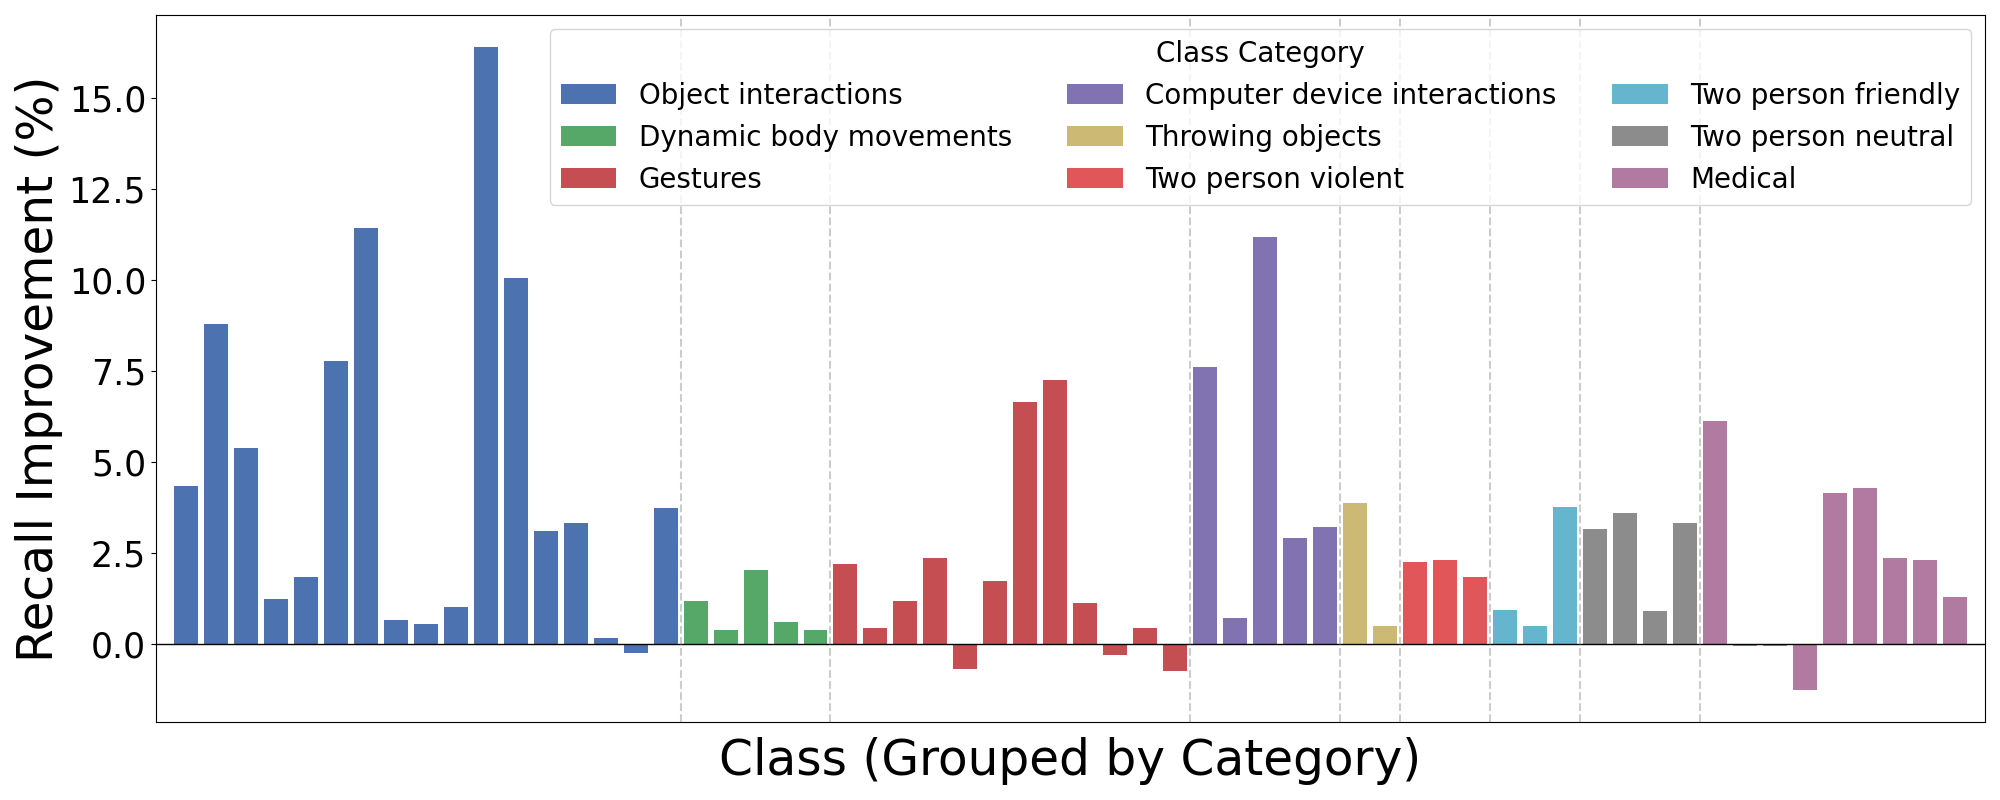
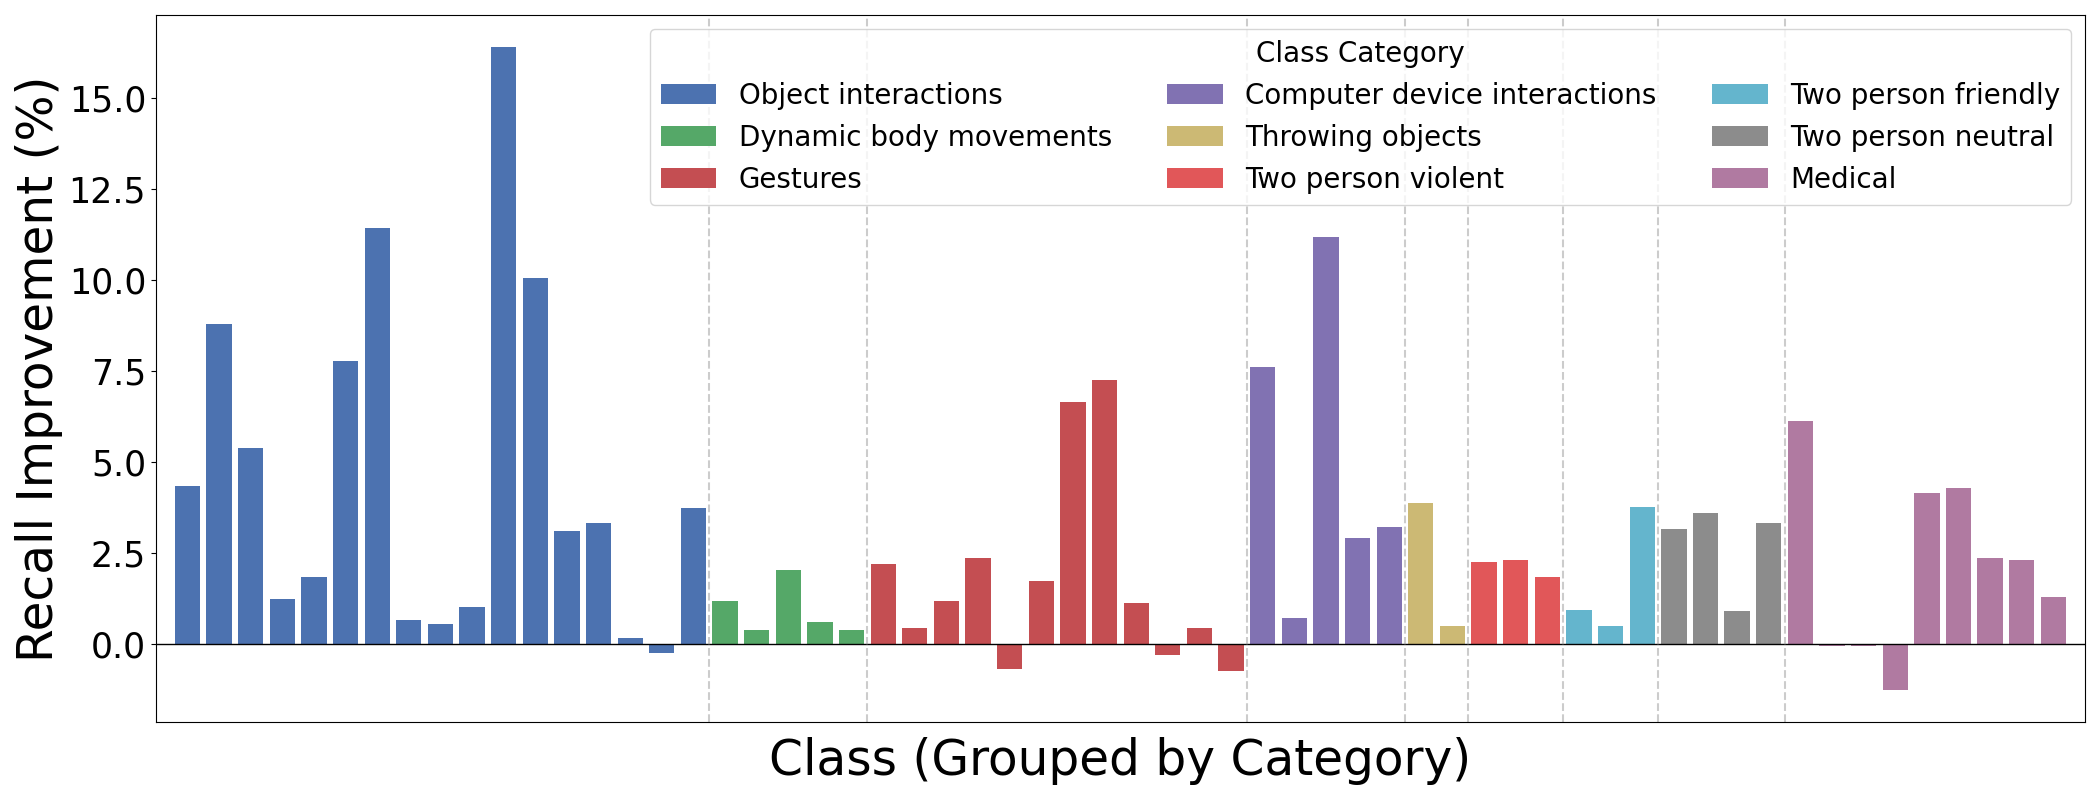
Change final draft before submit 2026.06.15

diff --git a/main.tex b/main.tex
@@ -17,9 +17,13 @@
 \usepackage{booktabs}
 \usepackage{siunitx}
 \sisetup{detect-weight=true, detect-inline-weight=math}
+\usepackage[font=small]{caption}
 
-% % Zotero citation key:
-% %     auth.lower+year+title
+% Reduce space under captions...
+\setlength{\belowcaptionskip}{-5pt}
+
+% Zotero citation key:
+%     auth.lower+year+title
 \usepackage{hyperref}
 
 
@@ -28,7 +32,7 @@
 }}
 
 \author{Lewis de Zoete Grundy$^{1}$, Chris McCarthy$^{1}$, and Christopher Fluke$^{1}$% <-this % stops a space
-%\thanks{*This work was not supported by any organization}% <-this % stops a space
+%\thanks{*This work was not supported by any organisation}% <-this % stops a space
 \thanks{$^{1}$School of Science, Computing and Emerging Technologies,
         Swinburne University of Technology, John St, Hawthorn VIC 3122, Australia
         {\tt\small\{ldezoetegrundy,cdmccarthy,cfluke\}@swin.edu.au}}%
@@ -50,7 +54,7 @@ Effective human-robot interaction (HRI) relies on a robot’s ability to interpr
 
 Despite significant progress in human action recognition, early action anticipation remains a challenging problem. Many approaches rely on skeletal representations derived from pose estimation, which provide a compact and semantically meaningful description of human body configuration \cite{yan2018SpatialTemporalGraphConvolutionalNetworksSkeletonBasedActionRecognition,shi2019SkeletonBasedActionRecognitionDirectedGraphNeuralNetworks}. These representations are well suited to real-time systems due to their efficiency and robustness to background variation. However, skeleton-based methods inherently discard fine-grained motion information, limiting their ability to distinguish between actions with similar pose configurations but different movement dynamics, particularly in the early stages of an action.
 
-Conversely, dense motion representations such as optical flow capture rich spatiotemporal information and have been widely used to improve action recognition performance \cite{simonyan2014TwoStreamConvolutionalNetworksActionRecognitionVideos,feichtenhofer2016ConvolutionalTwoStreamNetworkFusionVideoActionRecognition}. More recent work has explored transformer-based architectures for action anticipation, achieving strong performance through large-scale spatiotemporal modelling \cite{girdhar2021AnticipativeVideoTransformer}. However, these approaches often come with increased computational cost, making them less suitable for low-latency perception pipelines required in interactive robotic systems.
+Conversely, dense motion representations such as optical flow capture rich spatiotemporal information and have been widely used to improve action recognition performance \cite{simonyan2014TwoStreamConvolutionalNetworksActionRecognitionVideos}. More recent work has explored transformer-based architectures for action anticipation, achieving strong performance through large-scale spatiotemporal modelling \cite{girdhar2021AnticipativeVideoTransformer}. However, these approaches often come with increased computational cost, making them less suitable for low-latency perception pipelines required in interactive robotic systems.
 
 \begin{figure}[t]
     \centering
@@ -85,12 +89,13 @@ This paper is structured as follows: Section~\ref{sec:related_work} reviews rela
 
 % PoseOFF extraction method diagram
 \begin{figure*}[ht]
-  \centering
-  \includegraphics[width=0.9\linewidth]{figures/PoseOFF_extraction/PoseOFF_extraction-FLOW_WINDOWS.png}
- \caption{\label{fig:poseoff_extraction}
-PoseOFF representation construction. From an input RGB video, human pose keypoints and optical flow fields are extracted. Motion features are computed at each joint location by encoding local optical flow dynamics in the vicinity of the keypoint. These pose-conditioned motion features are combined with joint coordinates to form a structured representation aligned with human kinematics, capturing localised motion information for each body part. Motion feature windows are concatenated with keypoint information without alteration to skeleton joint relations. A lightweight embedding layer allows the PoseOFF data to be fed into an existing skeleton-based action recognition models without modification to model backbone.
-}
+    \centering
+    \includegraphics[width=0.9\linewidth]{figures/PoseOFF_extraction/PoseOFF_extraction-FLOW_WINDOWS.png}
+    \caption{\label{fig:poseoff_extraction}
+    PoseOFF representation construction. From an input RGB video, human pose keypoints and optical flow fields are extracted. Motion features are computed at each joint location by encoding local optical flow dynamics in the vicinity of the keypoint. These pose-conditioned motion features are combined with joint coordinates to form a structured representation aligned with human kinematics, capturing localised motion information for each body part. Motion feature windows are concatenated with keypoint information without alteration to skeleton joint relations. A lightweight embedding layer allows the PoseOFF data to be fed into an existing skeleton-based action recognition models without modification to model backbone.
+    }
 \end{figure*}
+
 
 \section{Related work}
 \label{sec:related_work}
@@ -110,7 +115,7 @@ These approaches achieve strong performance while maintaining relatively low com
 This limitation becomes particularly significant in early action anticipation, where partial observations may not yet exhibit distinctive pose configurations. In such cases, informative motion cues may be present even when pose alone is ambiguous, suggesting that augmenting skeleton-based representations with additional motion information is important for improving early prediction performance.
 
 \subsection{Motion-based and Multimodal Approaches}
-Motion-based representations, particularly those based on optical flow, capture dynamic information that complements pose and appearance features. Two-stream architectures \cite{simonyan2014TwoStreamConvolutionalNetworksActionRecognitionVideos,feichtenhofer2016ConvolutionalTwoStreamNetworkFusionVideoActionRecognition} and more recent video models \cite{tong2022VideoMAEMaskedAutoencodersareDataEfficientLearnersSelfSupervisedVideoPreTraining} demonstrate the importance of motion cues for action understanding \cite{kong2022HumanActionRecognitionPredictionSurvey}. However, these approaches typically model motion as a dense, global signal, leading to substantial computational cost and redundancy. While multimodal fusion improves recognition performance, it does not explicitly structure motion representations around human kinematics. As a result, motion information is often encoded in a manner that is both computationally expensive and weakly aligned with human body dynamics, limiting its effectiveness for efficient and temporally early action understanding.
+Motion-based representations, particularly those based on optical flow, capture dynamic information that complements pose and appearance features. Two-stream architectures \cite{simonyan2014TwoStreamConvolutionalNetworksActionRecognitionVideos} and more recent video models \cite{tong2022VideoMAEMaskedAutoencodersareDataEfficientLearnersSelfSupervisedVideoPreTraining} demonstrate the importance of motion cues for action understanding \cite{kong2022HumanActionRecognitionPredictionSurvey}. However, these approaches typically model motion as a dense, global signal, leading to substantial computational cost and redundancy. While multimodal fusion improves recognition performance, it does not explicitly structure motion representations around human kinematics. As a result, motion information is often encoded in a manner that is both computationally expensive and weakly aligned with human body dynamics, limiting its effectiveness for efficient and temporally early action understanding.
 
 % TODO: Review 649 - Stronger clarification here on differences between PoseOFF and existing joint-centred or pose-guided motion representations
 % E.g. JOLO-GCN, H-MoRe
@@ -125,7 +130,7 @@ This reveals a clear gap in the literature. No existing work has sought to integ
 
 We propose PoseOFF, a pose-conditioned motion representation designed to encode localised motion dynamics aligned with human body structure. Rather than modelling motion as a dense global signal or fusing it with pose at the feature level, PoseOFF explicitly conditions motion representation on human pose, capturing motion cues at semantically meaningful body locations.
 
-This design is motivated by the need for efficient and early action understanding in interactive robotic systems, where informative motion cues are often localised and temporally sparse. By structuring motion features around human kinematics, PoseOFF provides a compact and behaviourally grounded representation that supports early prediction while avoiding the computational overhead of dense motion modelling.
+This design is motivated by the need for efficient and early action understanding in interactive robotic systems, where informative motion cues are often localised and temporally sparse. By structuring motion features around human kinematics, PoseOFF provides a compact and behaviourally grounded representation that supports action anticipation while avoiding the computational overhead of dense motion modelling.
 
 By embedding early motion cues as learnable features in skeleton-based action recognition architectures, we aim to show such features can support state-of-the-art models achieving comparable accuracy with fewer observed frames.
 Moreover, we seek to achieve higher action anticipation ability with minimal additional computational overheads, thus retaining the feasibility of the methods applied in real-time settings on standard computing hardware.
@@ -174,7 +179,7 @@ where motion features are explicitly aligned with  joint locations, yielding a s
 \subsection{Skeleton-based Action Recognition Models}
 \label{subsec:models}
 % How we modified the neural networks
-To demonstrate the applicability and effectiveness of PoseOFF, we modify three state-of-the-art skeleton-keypoint action recognition models to incorporate learnable early visual motion cues.
+To demonstrate the applicability and effectiveness of PoseOFF, we modify three state-of-the-art skeleton keypoint action recognition models to incorporate learnable early visual motion cues.
 The embedding layer of each model was modified to include a simple CNN designed to learn the features present in the windows of optical flow.
 The CNN consisted of two convolutional layers separated by activation layers, pooling and a linear layer.
 The output of these layers was concatenated with the original skeleton keypoints coordinates as additional channels in the skeleton graph.
@@ -243,8 +248,7 @@ where $\text{Acc}_{\text{obs}}$ denotes the accuracy at a given observation rati
 \subsection{Action Classification}%
 \label{subsec:exp_action_classification}
 % % How the results were obtained
-To evaluate action classification performance, both the base models and their PoseOFF-augmented variants (\autoref{fig:embedding_network_diagram}) were trained and tested on full input sequences.
-No temporal masking was applied, simulating an offline action recognition setting.
+To evaluate action classification performance, both the base models and their PoseOFF-augmented variants (\autoref{fig:embedding_network_diagram}) were trained and tested on full input sequences without temporal masking, simulating an offline action recognition setting.
 % The PoseOFF data was learned using a simple CNN layer added to each model's embedding layer.
 % The flow windows for the NTU-RGB+D and NTU-RGB+D120 models were extracted using dilation 3.
 % The flow windows for the UCF101 dataset were extracted using dilation 1.
@@ -311,11 +315,11 @@ No temporal masking was applied, simulating an offline action recognition settin
 % These results show a baseline increase in model performance
 % Discussion of results table...
 Classification results are reported in~\autoref{table:classification_accuracy}, with the best-performing model for each dataset and evaluation highlighted.
-Across all architectures, incorporating PoseOFF embeddings yields average accuracy improvements of 2.14\%, 6.84\%, and 11.22\% on NTU RGB+D 60, NTU RGB+D 120, and UCF101, respectively.
-These gains suggest that PoseOFF embeddings capture informative cues about underlying human motion. The improvements on UCF101 are particularly notable, with an average accuracy increase of 11.22\%.
+Across all architectures, incorporating PoseOFF embeddings yields average accuracy improvements of 2.14\%, 6.84\%, and 11.22\% on NTU RGB+D 60, NTU RGB+D 120, and UCF101, respectively,
+The improvements on UCF101 are particularly notable, as this dataset consists of RGB-only videos captured “in the wild,” without depth or skeleton annotations.
 % TODO: Review 649 - Provide more discussion as to why results show greater improvement for UCF101
-As UCF101 consists of RGB-only videos captured “in the wild,” without depth or skeleton annotations, this result suggests that PoseOFF embeddings provide salient motion information well suited to real-world scenarios.
-
+The skeletons extracted with YOLO-POSE can occasionally be misplaced or dropped due to the unconstrained nature of the videos in the dataset, and given the aggressively abstract nature of skeleton keypoints, misplaced keypoints can significantly impact action recognition performance.
+The addition of PoseOFF embeddings provides salient motion information and additional scene context, even when skeleton keypoints are misplaced.
 
 
 \subsection{Action Anticipation}%
@@ -374,10 +378,10 @@ The distribution of improvements reveals clear trends across action categories. 
 A similar pattern is observed on UCF101 (Fig.~\ref{fig:perclass_ucf101}), where improvements are strongest in categories involving structured body motion and object interaction, while gains are more variable for sports-related actions. In particular, sports classes—characterised by large-scale, full-body motion—exhibit both strong improvements and occasional performance drops, suggesting that global motion dynamics may not always be fully captured by localised representations.
 
 \begin{figure*}[t]
-        \centering
-        \includegraphics[width=\linewidth]{figures/Class_examples/Class_examples_PoseOFF-FULL.png}
-        \caption{Qualitative examples illustrating how PoseOFF captures localised motion cues (e.g., rotation, divergence) around key joints, supporting improved recognition under occlusion, subtle motion, and scene clutter.}
-        \label{fig:class_examples_full}
+    \centering
+    \includegraphics[width=0.95\linewidth]{figures/Class_examples/Class_examples_PoseOFF-FULL.png}
+    \caption{Qualitative examples illustrating how PoseOFF captures localised motion cues (e.g., rotation, divergence) around key joints, supporting improved recognition under occlusion, subtle motion, and scene clutter.}
+    \label{fig:class_examples_full}
 \end{figure*}
 
 To further interpret these trends, Fig.~\ref{fig:class_examples_full} presents qualitative examples of action classes where PoseOFF yields improved recall. These examples illustrate how localised motion cues captured by pose-anchored flow contribute to improved discrimination under challenging visual conditions.
@@ -386,25 +390,25 @@ For instance, in \textit{fall over}, limb occlusion limits the availability of o
 
 Across these examples, the motion fields surrounding key joints (e.g., elbows and knees) exhibit structured patterns, including curl in the flow field corresponding to limb rotation, and divergence where joints move toward or away from the camera. These local motion signatures are not explicitly encoded in skeletal representations but are captured by PoseOFF.  Figure~\ref{fig:classexamples_small} provides two more examples (\emph{pick-up} and \emph{jump}) where PoseOFF yields improved recall.
 
-Conversely, performance decreases are limited to a small number of classes across all datasets. These typically correspond to actions dominated by global motion patterns or complex multi-agent interactions, where localised motion cues alone may be insufficient for reliable discrimination.
+Conversely, performance decreases are limited to a small number of classes across all datasets. These typically correspond to actions dominated by global motion patterns or complex multi-agent interactions, where localised motion cues alone may be insufficient for reliable discrimination. For the UCF101 dataset, actions where human body joints are partially occluded - like videos of action classes ``Rowing'' or ``Breast Stroke'' - pose-only models show greater action classification accuracy. This could be caused by an introduction of significant noise in the flow field, which has less of an impact on the pose keypoints.
 
 
 \subsection{Performance and Implementation Considerations}
 \label{subsec:inference_time}
 PoseOFF provides a computationally efficient alternative to dense motion representations, retaining informative motion cues while avoiding the substantial overhead of full optical flow processing. Table~\ref{table:datasize_comparison} compares data size and extraction cost for pose-only, full optical flow, and PoseOFF representations. For a representative $1920\times1080$ video sequence, PoseOFF requires approximately 1060kB of data, compared to 60kB for pose-only and 1.66GB for full optical flow. This represents an orders-of-magnitude reduction in data relative to dense motion representations, while still incorporating meaningful motion information.
 
-In terms of computational cost, PoseOFF introduces only a modest increase over pose-only processing. The additional overhead arises from sampling a subset of optical flow vectors around each keypoint, rather than processing the full flow field. As shown in Table~\ref{table:model_size_inference}, integrating PoseOFF increases the number of trainable parameters by an average of 1.88\%, with corresponding increases in inference time of 5.3 ms and 9.35 ms for InfoGCN++ and MS-G3D, respectively. These increases remain small relative to overall model complexity and are compatible with real-time operation.
+PoseOFF adds only a modest overhead to action inference time compared to pose-only inference, due to processing optical flow vectors embedded with keypoint features. As shown in Table~\ref{table:model_size_inference}, it increases trainable parameters by an average of 1.88\% and adds 5.3 ms and 9.35 ms to post-extraction inference time for InfoGCN++ and MS-G3D, respectively. These increases remain small relative to model complexity and are compatible with real-time operation.
 
 Importantly, the modifications required to incorporate PoseOFF are limited to the embedding layer of each model, preserving the structure and efficiency of the underlying architecture. This enables straightforward integration into existing skeleton-based pipelines.
 
 
 \begin{table}[t]
 \centering
-\caption{Data size and inference speed comparison for pose-only, PoseOFF, and full optical flow representations.\protect\footnotemark}
+\caption{Data size and extraction speed comparison for pose-only, PoseOFF, and full optical flow representations.}
 \label{table:datasize_comparison}
 \begin{tabular}{lccc}
 \toprule
-\textbf{Representation} & \textbf{Data Size} & \textbf{Inference Time} & \textbf{FPS} \\
+\textbf{Representation} & \textbf{Data Size} & \textbf{Extraction Time} & \textbf{FPS} \\
 \midrule
 Pose only  & 60\,kB   & 713\,ms  & 140 \\
 PoseOFF    & 1060\,kB & 720\,ms  & 138 \\
@@ -413,7 +417,6 @@ Full flow  & 1.66\,GB & 10.8\,s  & 9 \\
 \end{tabular}
 \end{table}
 
-\footnotetext{PoseOFF inference time is calculated as a proportion of optical flow vectors sampled, with the mandatory computation costs of pose calculations.}
 
 \begin{table}[t]
 \centering
@@ -443,10 +446,11 @@ Full flow  & 1.66\,GB & 10.8\,s  & 9 \\
 \end{tabular}
 \end{table}
 
+
 \section{Discussion and Conclusion}
 \label{sec:discussion_conclusion}
 
-The results demonstrate that incorporating localised motion cues through PoseOFF consistently improves early action recognition, particularly under partial observation. By conditioning motion extraction on pose, PoseOFF captures fine-grained dynamics—such as limb acceleration and object interaction—that are not represented in skeletal configurations alone, while avoiding the overhead of dense optical flow. This positions PoseOFF as an efficient middle ground between lightweight pose-based methods \cite{yan2018SpatialTemporalGraphConvolutionalNetworksSkeletonBasedActionRecognition, shi2019SkeletonBasedActionRecognitionDirectedGraphNeuralNetworks} and computationally intensive motion-based approaches \cite{simonyan2014TwoStreamConvolutionalNetworksActionRecognitionVideos, feichtenhofer2016ConvolutionalTwoStreamNetworkFusionVideoActionRecognition}.
+The results demonstrate that incorporating localised motion cues through PoseOFF consistently improves early action recognition, particularly under partial observation. By conditioning motion extraction on pose, PoseOFF captures fine-grained dynamics—such as limb acceleration and object interaction—that are not represented in skeletal configurations alone, while avoiding the overhead of dense optical flow. This positions PoseOFF as an efficient middle ground between lightweight pose-based methods \cite{yan2018SpatialTemporalGraphConvolutionalNetworksSkeletonBasedActionRecognition, shi2019SkeletonBasedActionRecognitionDirectedGraphNeuralNetworks} and computationally intensive motion-based approaches \cite{simonyan2014TwoStreamConvolutionalNetworksActionRecognitionVideos}.
 
 Per-class analysis shows that these gains are most pronounced for actions characterised by subtle, localised motion, including hand-object interactions and self-directed activities, where pose trajectories alone are insufficient for early discrimination. In contrast, actions dominated by large-scale global motion exhibit smaller or more variable improvements, suggesting that such dynamics are already well captured by skeletal representations.
 
